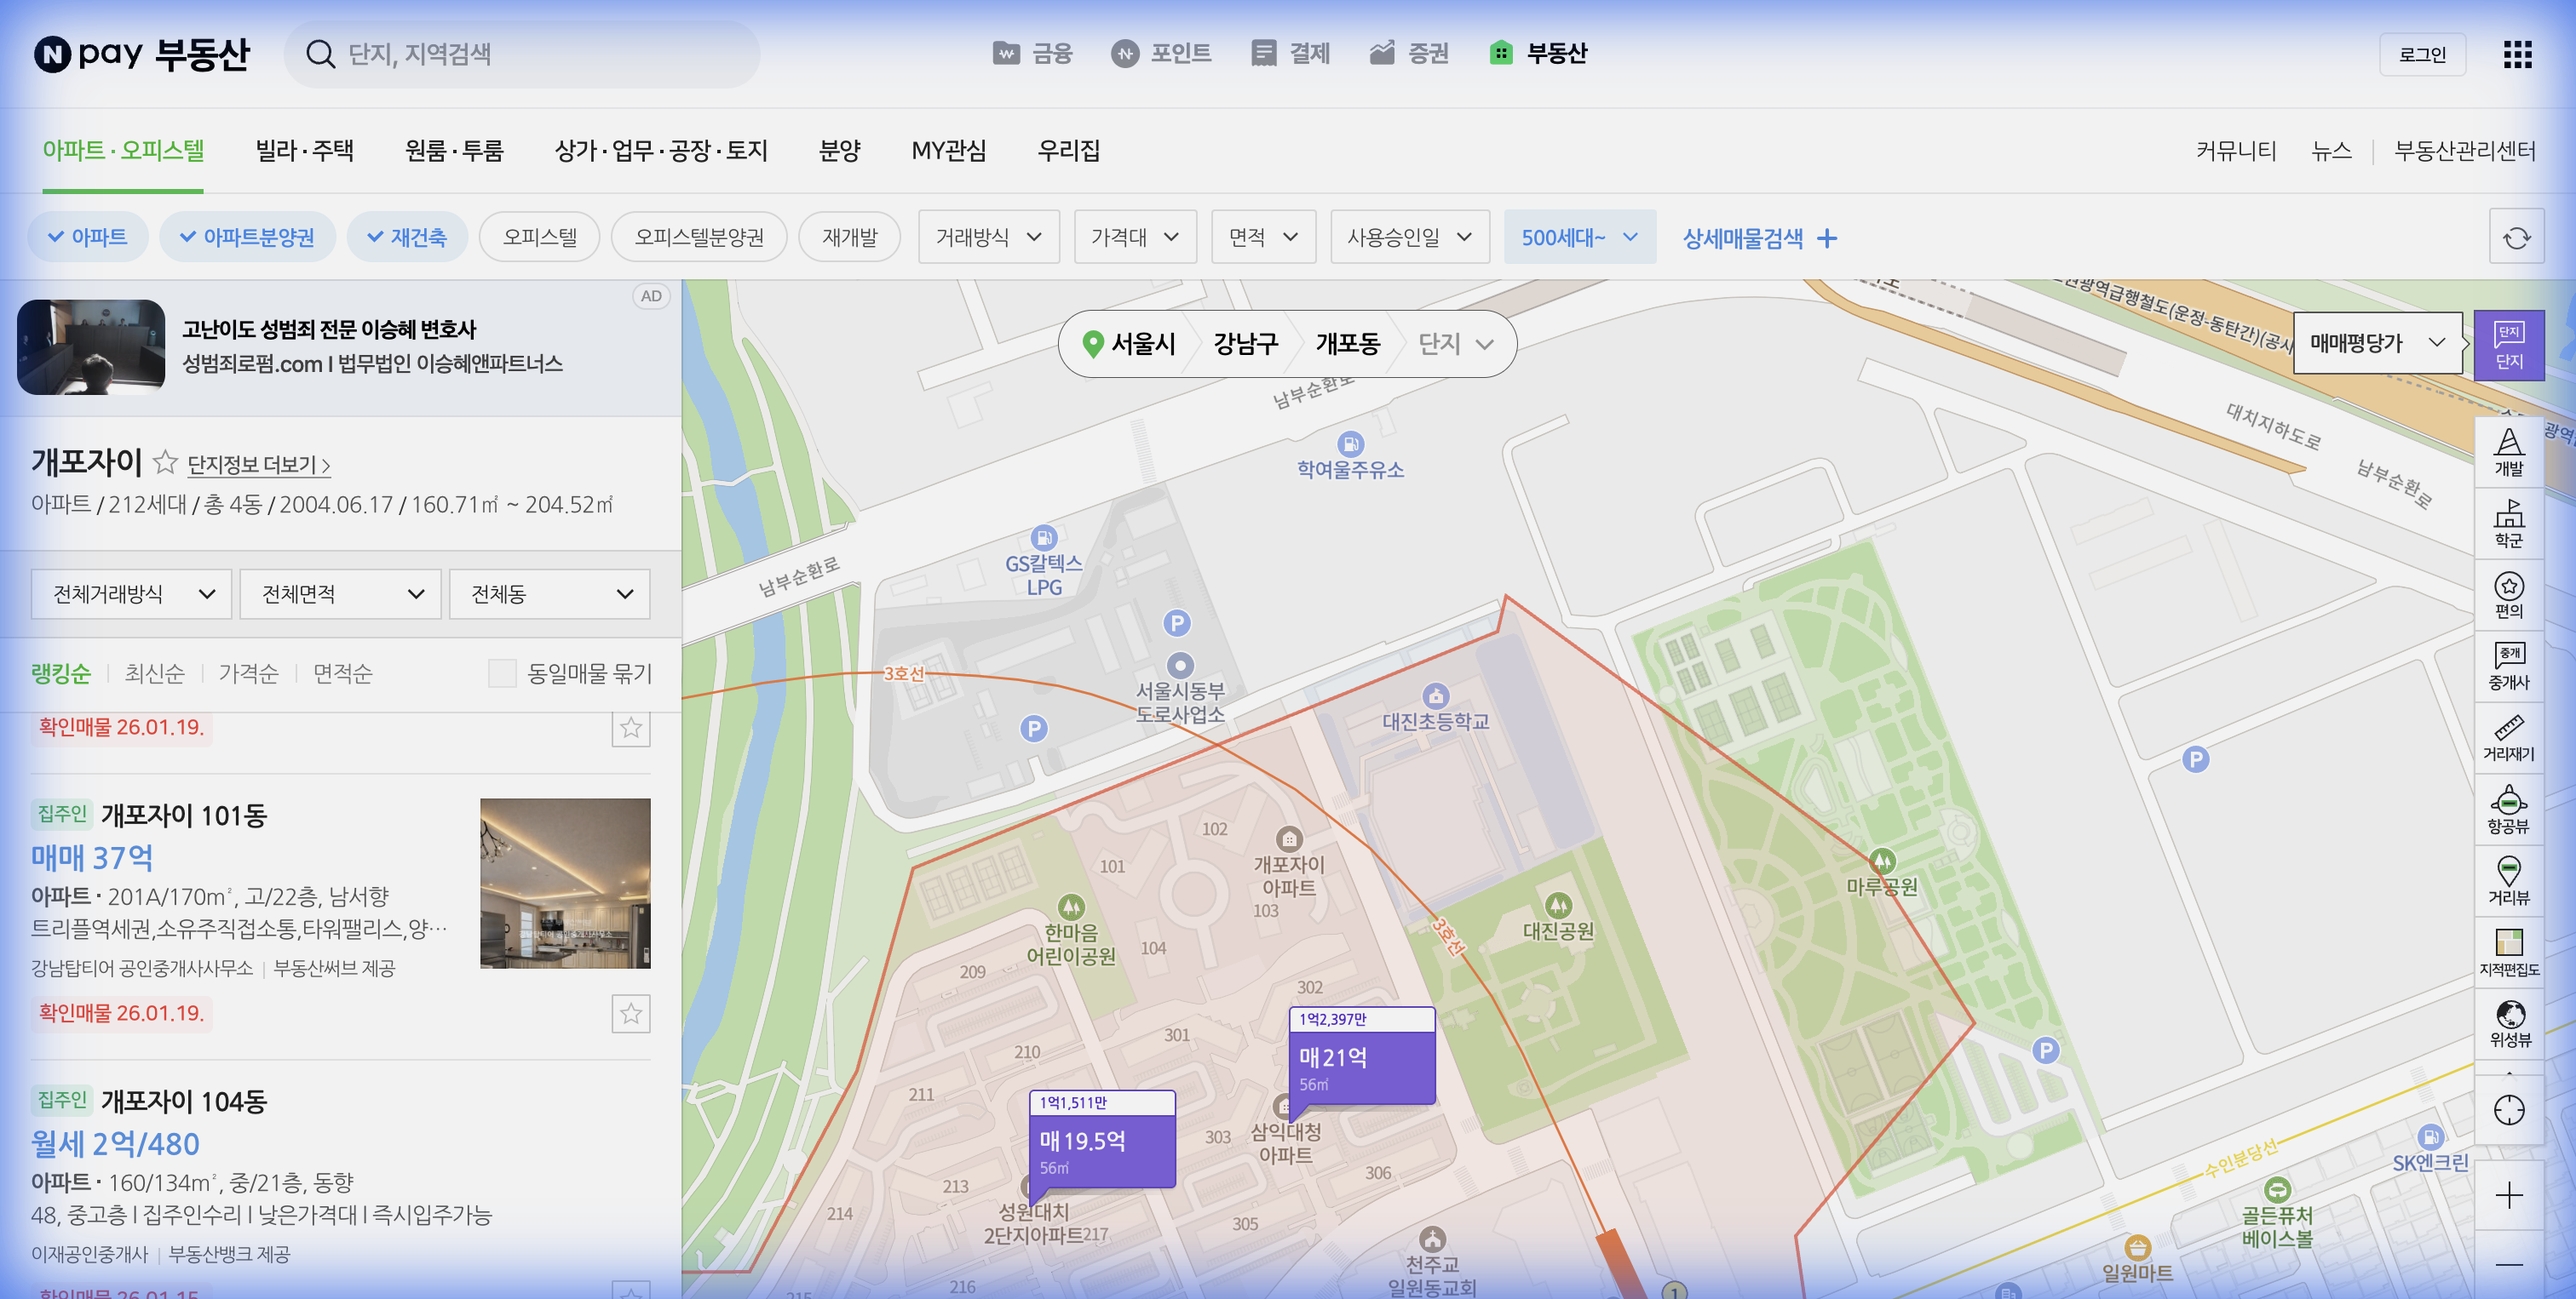
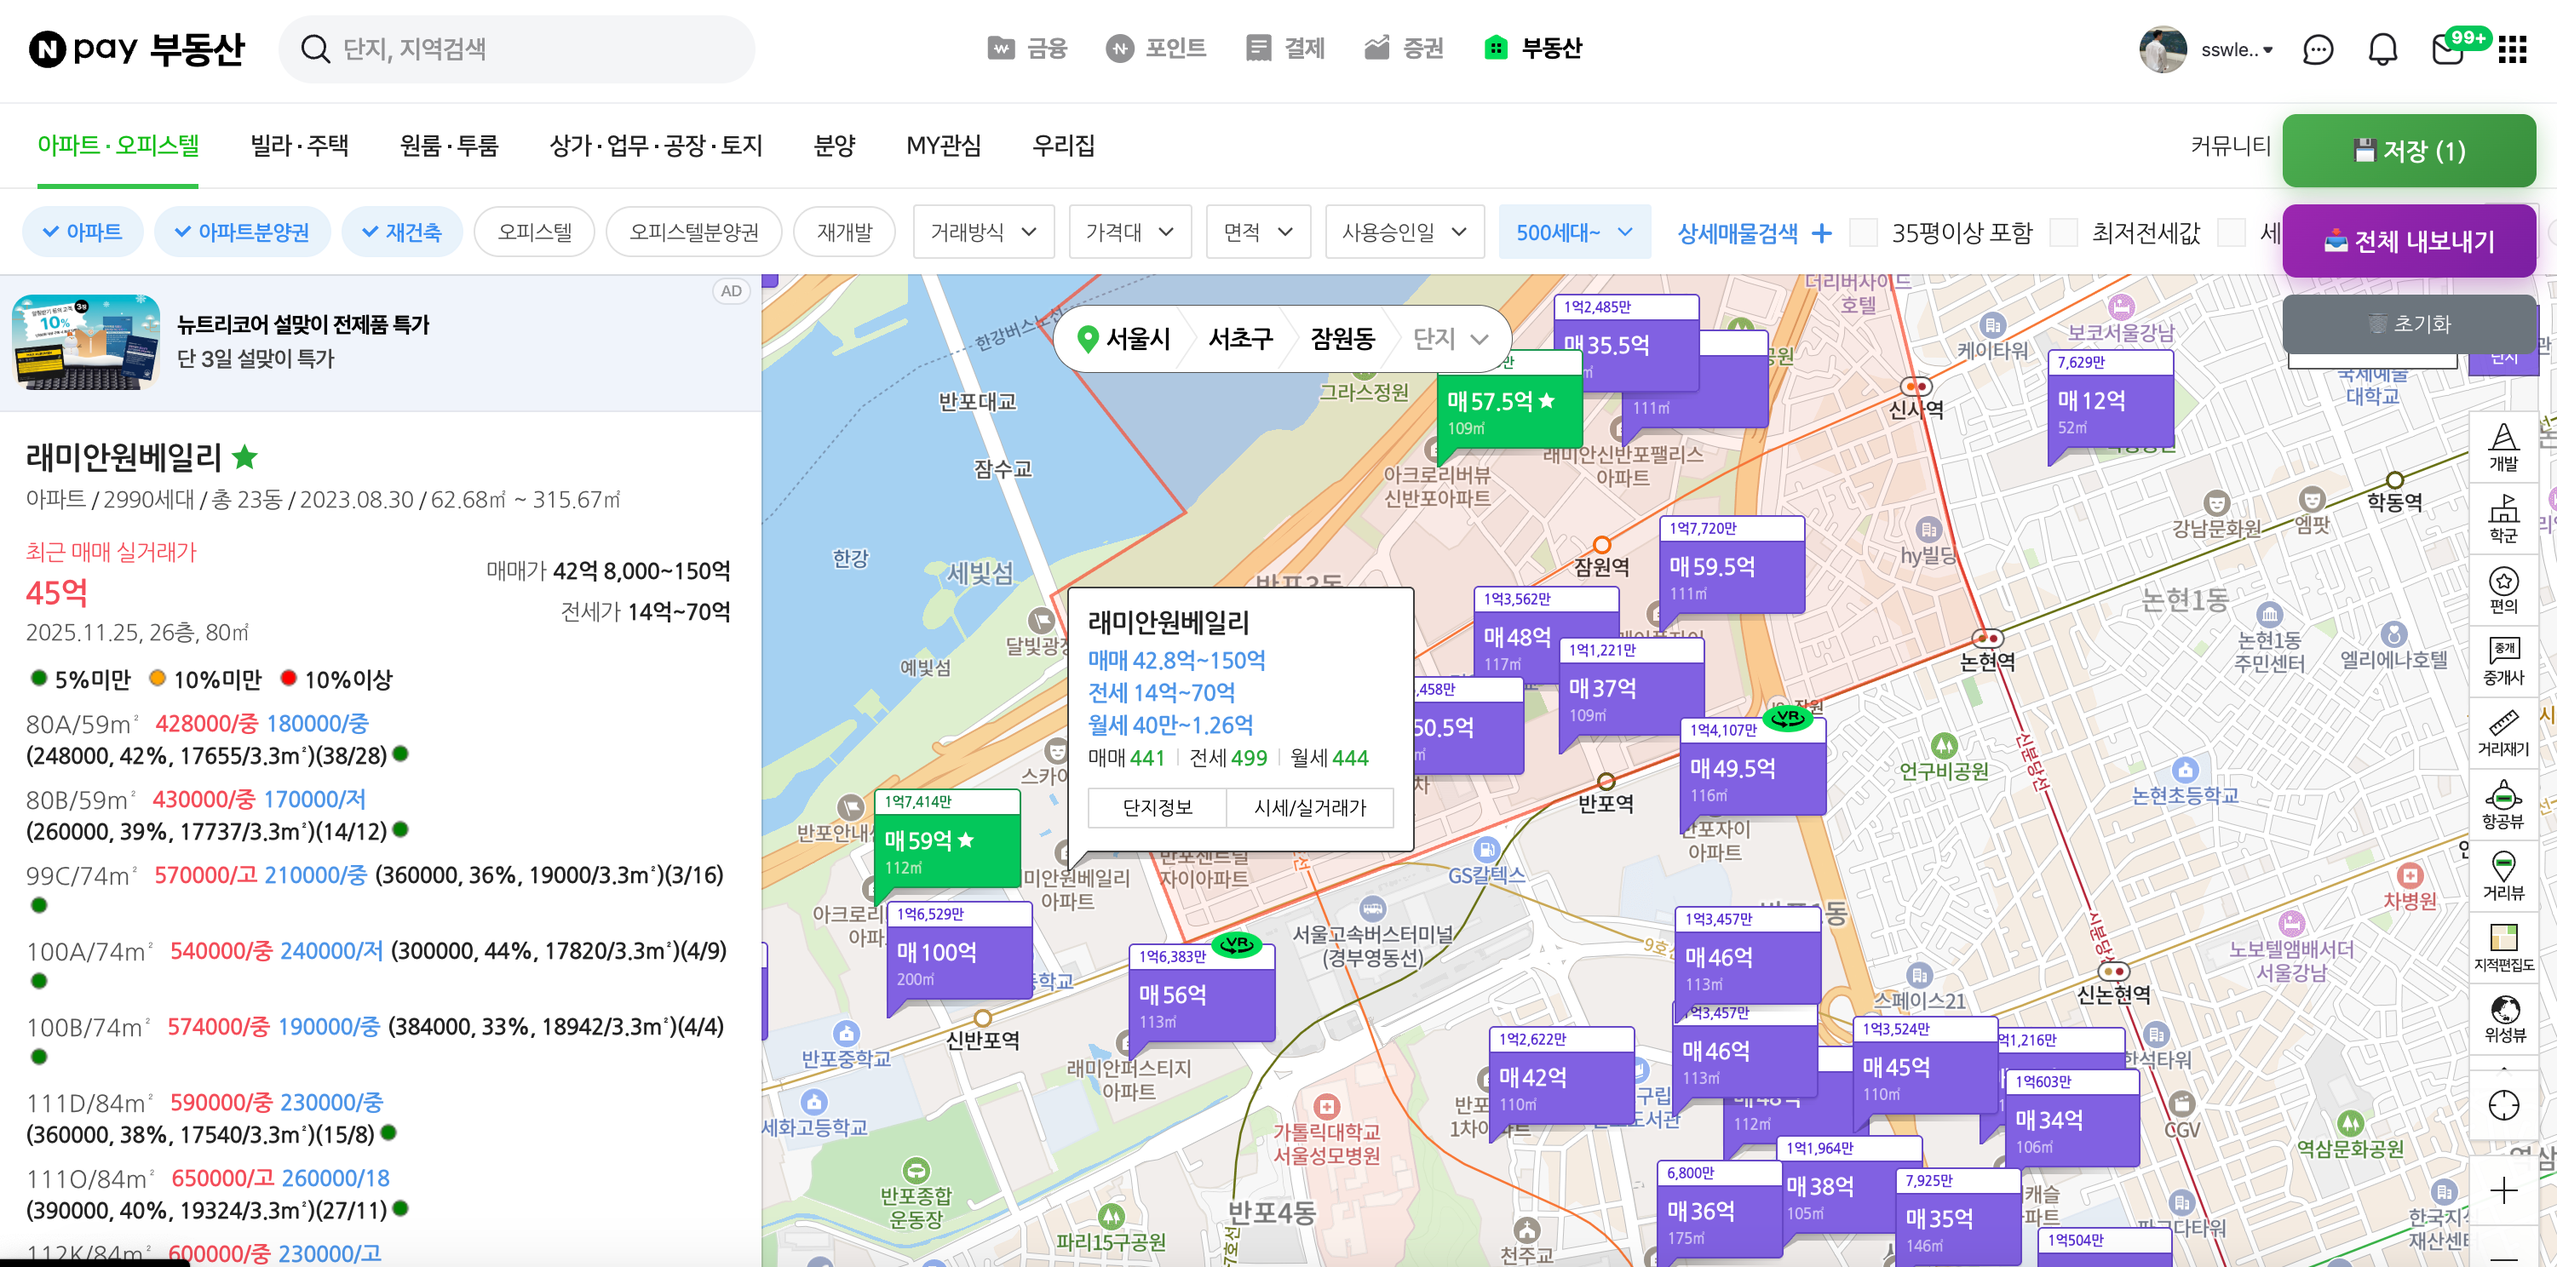
update: Add step4 image and sync landing-page images
- Copy updated step3, step4, step5 images to landing-page/images/
- Add step4 screenshot to landing page HTML

diff --git a/landing-page/index.html b/landing-page/index.html
@@ -854,6 +854,9 @@
                     </div>
                 </div>
                 <div class="step-content">
+                    <div class="step-image">
+                        <img src="images/step4_apartment_save.png" alt="저장 버튼">
+                    </div>
                     <ul class="step-list">
                         <li>화면 우측 상단의 <strong style="color: #4CAF50;">💾 저장</strong> 버튼 클릭</li>
                         <li>해당 단지의 시세 데이터가 브라우저에 저장됩니다</li>
